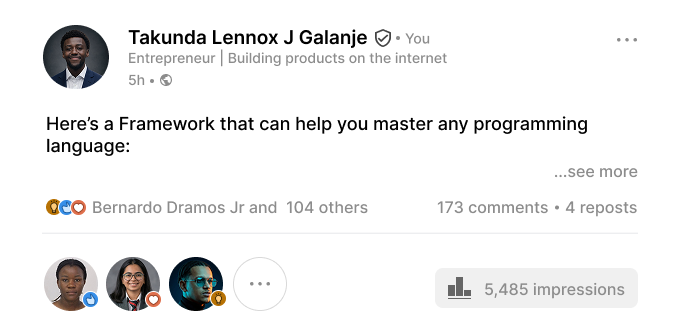
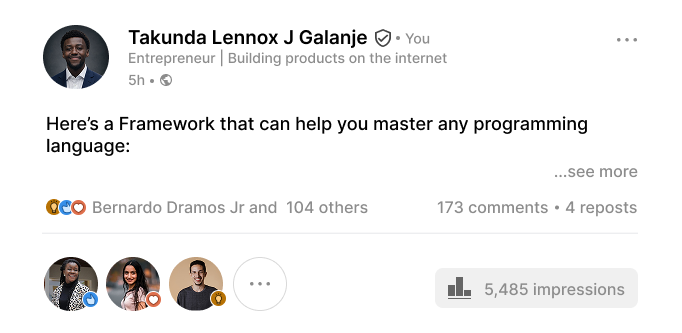
feat: initialize section images

Changed region(s): [[0.0616, 0.7508, 0.3387, 0.9309]]

diff --git a/src/app/page.tsx b/src/app/page.tsx
@@ -169,7 +169,7 @@ export default function Home() {
               {/* Problem 1 - Left */}
               <div className="flex items-center gap-5">
                 <img
-                  src="https://images.unsplash.com/photo-1573496359142-b8d87734a5a2?auto=format&fit=crop&q=80&w=100&h=100"
+                  src="/images/image-2.jpg"
                   alt="The Founder"
                   className="w-12 h-12 md:w-14 md:h-14 rounded-full object-cover shrink-0 shadow-lg border border-slate-700/50"
                 />
@@ -188,7 +188,7 @@ export default function Home() {
                   </div>
                 </div>
                 <img
-                  src="https://images.unsplash.com/photo-1560250097-0b93528c311a?auto=format&fit=crop&q=80&w=100&h=100"
+                  src="/images/image-3.jpg"
                   alt="The Creator"
                   className="w-12 h-12 md:w-14 md:h-14 rounded-full object-cover shrink-0 shadow-lg border border-slate-700/50"
                 />
@@ -197,7 +197,7 @@ export default function Home() {
               {/* Problem 3 - Left */}
               <div className="flex items-center gap-5">
                 <img
-                  src="https://images.unsplash.com/photo-1580489944761-15a19d654956?auto=format&fit=crop&q=80&w=100&h=100"
+                  src="/images/image-1.jpg"
                   alt="The Marketer"
                   className="w-12 h-12 md:w-14 md:h-14 rounded-full object-cover shrink-0 shadow-lg border border-slate-700/50"
                 />
@@ -216,7 +216,7 @@ export default function Home() {
                   </div>
                 </div>
                 <img
-                  src="https://images.unsplash.com/photo-1519085360753-af0119f7cbe7?auto=format&fit=crop&q=80&w=100&h=100"
+                  src="/images/image-4.jpeg"
                   alt="The Professional"
                   className="w-12 h-12 md:w-14 md:h-14 rounded-full object-cover shrink-0 shadow-lg border border-slate-700/50"
                 />
